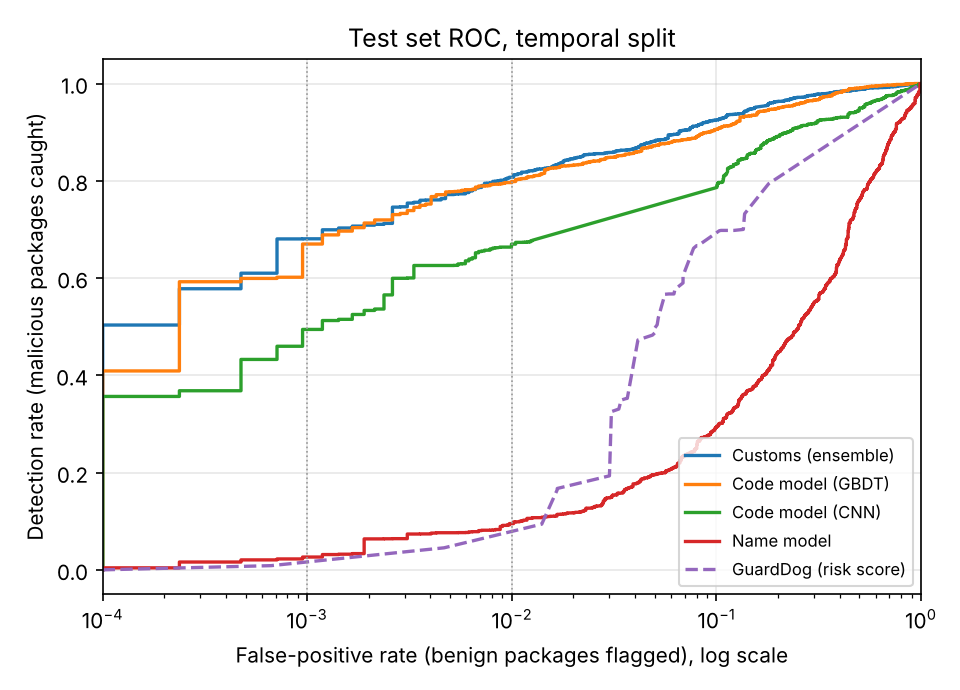
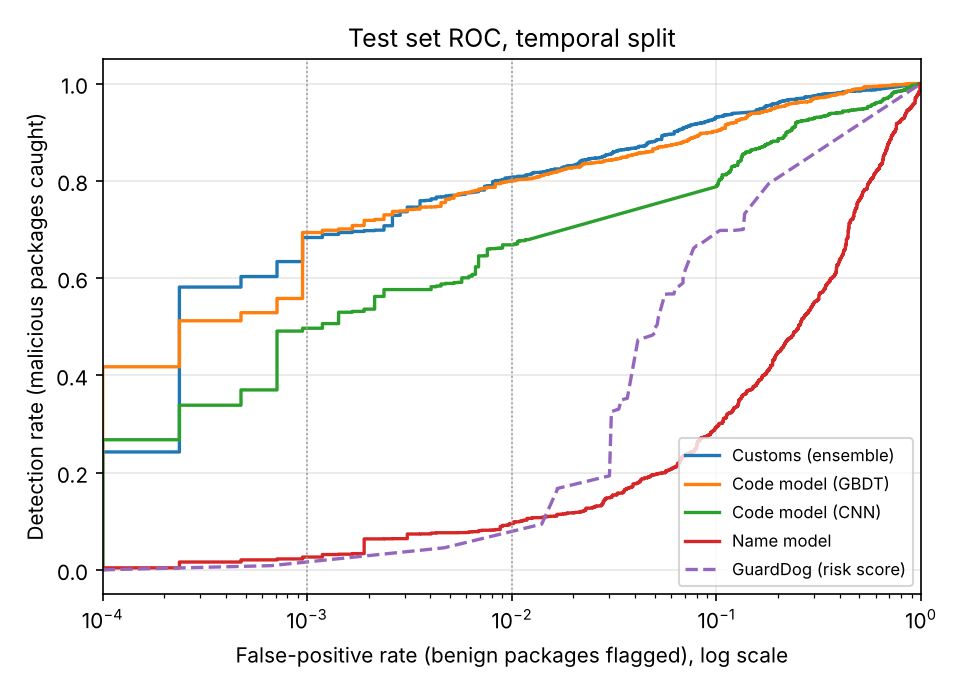
Models: retrain with encoded literal code and string-table reads
Threshold-free recall at 0.1% test FPR 68.3% (68.1% before), recall at
block 69.5% at 0.17% realized FPR, recall at warn 80.0%. The string_table
rewrite now costs 0.6 points at block (2.75 before), zlib_wrap is blocked
at 86.9%. MalRegistry campaign-weighted recall at 0.5% FPR 0.823 (0.814),
held-out campaigns blocked 68.0% (62.3%). Replay decision agreement 1.0,
history parity 107/107.

diff --git a/docs/EVALUATION.md b/docs/EVALUATION.md
@@ -1,6 +1,6 @@
 # Customs: evaluation report
 
-Generated 2026-10-08T04:34:23+00:00 by `python -m customs_ml.report` from the artifacts of `python -m customs_ml.pipeline`. Every number below is on held-out test data with thresholds frozen on the validation split, unless a row says otherwise.
+Generated 2026-10-08T06:03:45+00:00 by `python -m customs_ml.report` from the artifacts of `python -m customs_ml.pipeline`. Every number below is on held-out test data with thresholds frozen on the validation split, unless a row says otherwise.
 
 ## Data
 
@@ -20,16 +20,16 @@ Generated 2026-10-08T04:34:23+00:00 by `python -m customs_ml.report` from the ar
 
 | Metric | Test value (95% CI) |
 |---|---|
-| ROC AUC | 0.972 (0.965 to 0.978) |
-| PR AUC | 0.977 (0.972 to 0.982) |
-| Detection rate at the **block** threshold (target FPR 0.1%) | 63.8% (59.6 to 67.7) |
-| Realized test FPR at block | 0.07% (0.00 to 0.17) |
-| Detection rate at the **warn** threshold (target FPR 1%) | 78.2% (74.9 to 81.6) |
-| Realized test FPR at warn | 0.66% (0.43 to 0.93) |
-| Detection at exactly 0.1% FPR on the test ROC (threshold-free) | 68.1% (57.0 to 74.0) |
-| Detection at exactly 1% FPR on the test ROC (threshold-free) | 80.7% (77.2 to 84.3) |
-| Brier score | 0.064 |
-| Expected calibration error | 0.040 |
+| ROC AUC | 0.971 (0.963 to 0.977) |
+| PR AUC | 0.976 (0.970 to 0.981) |
+| Detection rate at the **block** threshold (target FPR 0.1%) | 69.5% (65.4 to 73.3) |
+| Realized test FPR at block | 0.17% (0.07 to 0.31) |
+| Detection rate at the **warn** threshold (target FPR 1%) | 80.0% (76.9 to 83.0) |
+| Realized test FPR at warn | 0.83% (0.57 to 1.10) |
+| Detection at exactly 0.1% FPR on the test ROC (threshold-free) | 68.3% (57.4 to 73.3) |
+| Detection at exactly 1% FPR on the test ROC (threshold-free) | 80.7% (76.8 to 83.9) |
+| Brier score | 0.065 |
+| Expected calibration error | 0.037 |
 
 ![ROC curves](figures/roc.png)
 
@@ -39,12 +39,12 @@ Each component's thresholds were chosen on validation at the same target FPRs.
 
 | Model | ROC AUC | PR AUC | Recall at block | FPR at block | Recall at warn | FPR at warn |
 |---|---:|---:|---:|---:|---:|---:|
-| Customs (ensemble) | 0.972 | 0.977 | 63.8% | 0.07% | 78.2% | 0.66% |
-| Code model (GBDT) | 0.969 | 0.974 | 64.8% | 0.09% | 80.3% | 1.07% |
-| Code model (CNN) | 0.923 | 0.934 | 35.6% | 0.00% | 64.1% | 0.64% |
+| Customs (ensemble) | 0.971 | 0.976 | 69.5% | 0.17% | 80.0% | 0.83% |
+| Code model (GBDT) | 0.969 | 0.974 | 66.6% | 0.09% | 80.4% | 1.21% |
+| Code model (CNN) | 0.925 | 0.935 | 26.8% | 0.02% | 62.0% | 0.66% |
 | Name model | 0.680 | 0.685 | 0.5% | 0.02% | 9.9% | 1.04% |
 
-Stacking weights on component logits: code GBDT 0.94, code CNN 0.47, name 0.05 (fit on validation with 5-fold cluster-grouped cross-fitting; calibration and thresholds use out-of-fold scores). Each component logit is clipped to [-4, 4] before stacking, the bound with the best out-of-fold recall up to 1% FPR on validation. Without it, a few benign validation packages with extreme CNN logits set the block threshold well past its 0.1% target.
+Stacking weights on component logits: code GBDT 1.19, code CNN 0.57, name 0.13 (fit on validation with 5-fold cluster-grouped cross-fitting; calibration and thresholds use out-of-fold scores). Each component logit is clipped to [-3, 3] before stacking, the bound with the best out-of-fold recall up to 1% FPR on validation. Without it, a few benign validation packages with extreme CNN logits set the block threshold well past its 0.1% target.
 
 ## Against GuardDog
 
@@ -52,11 +52,11 @@ Stacking weights on component logits: code GBDT 0.94, code CNN 0.47, name 0.05 (
 
 | | GuardDog | Customs |
 |---|---:|---:|
-| ROC AUC (GuardDog risk score vs Customs risk) | 0.837 | 0.973 |
+| ROC AUC (GuardDog risk score vs Customs risk) | 0.837 | 0.971 |
 | Any finding: FPR | 18.0% | same FPR by construction |
 | Any finding: detection rate | 79.4% | 95.9% |
 | `high_risk` label: FPR | 5.0% | same FPR by construction |
-| `high_risk` label: detection rate | 49.7% | 88.6% |
+| `high_risk` label: detection rate | 49.7% | 87.7% |
 
 At GuardDog's own false-positive rate, Customs' detection-rate gain has a paired cluster-bootstrap 95% CI of 13.0 to 20.2 points. (For this comparison only, Customs' threshold is set on the test benign packages to match GuardDog's realized FPR; that is what matched-FPR means.)
 
@@ -64,39 +64,39 @@ At GuardDog's own false-positive rate, Customs' detection-rate gain has a paired
 
 | Slice | n malicious | n benign | ROC AUC | Recall at block | FPR at block |
 |---|---:|---:|---:|---:|---:|
-| ecosystem:pypi | 209 | 2,332 | 0.981 | 44.0% | 0.04% |
-| ecosystem:npm | 3,891 | 1,885 | 0.964 | 64.9% | 0.11% |
-| malicious:novel_campaigns | 3,550 | 4,217 | 0.971 | 64.0% | 0.07% |
-| malicious:seen_campaigns | 550 | 4,217 | 0.979 | 62.7% | 0.07% |
-| malicious:malicious_intent | 3,903 | 4,217 | 0.976 | 65.0% | 0.07% |
-| malicious:compromised_lib | 197 | 4,217 | 0.904 | 41.1% | 0.07% |
-| size:tercile_1 | 2,877 | 1,406 | 0.983 | 75.2% | 0.21% |
-| size:tercile_2 | 747 | 1,405 | 0.955 | 48.3% | 0.00% |
-| size:tercile_3 | 476 | 1,406 | 0.926 | 19.3% | 0.00% |
+| ecosystem:pypi | 209 | 2,332 | 0.981 | 45.5% | 0.17% |
+| ecosystem:npm | 3,891 | 1,885 | 0.963 | 70.8% | 0.16% |
+| malicious:novel_campaigns | 3,550 | 4,217 | 0.969 | 69.8% | 0.17% |
+| malicious:seen_campaigns | 550 | 4,217 | 0.981 | 67.3% | 0.17% |
+| malicious:malicious_intent | 3,903 | 4,217 | 0.974 | 70.7% | 0.17% |
+| malicious:compromised_lib | 197 | 4,217 | 0.901 | 45.2% | 0.17% |
+| size:tercile_1 | 2,877 | 1,406 | 0.983 | 81.5% | 0.36% |
+| size:tercile_2 | 747 | 1,405 | 0.955 | 53.1% | 0.07% |
+| size:tercile_3 | 476 | 1,406 | 0.912 | 22.3% | 0.07% |
 
 False-positive rate on benign packages by popularity tier:
 
 | Tier | n | FPR at block | FPR at warn |
 |---|---:|---:|---:|
-| top | 574 | 0.00% | 0.35% |
-| mid | 1,490 | 0.00% | 0.54% |
-| tail | 2,153 | 0.14% | 0.84% |
+| top | 574 | 0.00% | 0.52% |
+| mid | 1,490 | 0.00% | 0.60% |
+| tail | 2,153 | 0.33% | 1.07% |
 
 `malicious:*` slices are each malicious subset against all benign test packages. `novel_campaigns` are test samples whose near-duplicate cluster has no member in training: the closest thing to a never-seen attack. Size terciles cut on benign source-line counts, to expose any small-package shortcut.
 
 ## What the misses are
 
-Of 4,100 test malware packages, 893 fall below the warn threshold. Grouped by what the scanner saw:
+Of 4,100 test malware packages, 822 fall below the warn threshold. Grouped by what the scanner saw:
 
 | Scanner saw | n malicious | Missed | Miss rate |
 |---|---:|---:|---:|
-| Behavior indicators on the install surface | 2,960 | 327 | 11.0% |
-| Indicators only outside the install surface | 482 | 284 | 58.9% |
-| No behavior indicator anywhere | 658 | 282 | 42.9% |
+| Behavior indicators on the install surface | 2,960 | 294 | 9.9% |
+| Indicators only outside the install surface | 482 | 252 | 52.3% |
+| No behavior indicator anywhere | 658 | 276 | 41.9% |
 
 A hand audit of 20 missed packages with no indicator anywhere (one per campaign, sampled at random) found 12 whose payload is a compiled binary (`.node`, `.exe`, `.so`, a macOS app), 1 that ships no code and depends on a malicious package (which the proxy scans on its own when the client fetches it), and 7 with no malicious content in the archive: two placeholders (a name reserved against dependency confusion that only raises an error, and the PyPA sample project) and five releases that read as clean. Those seven are label noise, so part of this row is not detectable by any scanner.
 
-Binary-only packages (a compiled binary and under 50 lines of source) are a temporal blind spot: 155 test malware packages against 68 in training, and 86.5% of the test ones are missed at warn.
+Binary-only packages (a compiled binary and under 50 lines of source) are a temporal blind spot: 155 test malware packages against 68 in training, and 85.2% of the test ones are missed at warn.
  Searching every packaged binary for infostealer and dropper strings (webhook and bot endpoints, browser credential stores, wallet and SSH key paths, anti-VM process names, autorun commands, IP-literal URLs) does not separate the classes: at least one appears in 4.9% of malicious and 3.2% of benign training binaries, and in 7.5% of malicious test ones. PyInstaller marks 34.5% of malicious training binaries but 2.0% in test, so a feature built on it would learn the past. Binary payloads stay with the policy rules (minimum package age, install scripts in new packages) rather than the classifier.
 
 ## Ablation: what does the code itself say?
@@ -106,8 +106,8 @@ The tree model retrained on 47 behavior features only (indicator counts and obfu
 | Feature set | ROC AUC | Recall at block | Recall at warn |
 |---|---:|---:|---:|
 | All features (before augmentation) | 0.976 | 73.0% | 81.1% |
-| All features | 0.969 | 64.8% | 80.3% |
-| Behavior only | 0.937 | 45.6% | 59.7% |
+| All features | 0.969 | 66.6% | 80.4% |
+| Behavior only | 0.937 | 42.4% | 60.1% |
 
 ## Adversarial robustness
 
@@ -115,25 +115,26 @@ Held-out test malware rewritten as text (never executed), re-scanned and re-scor
 
 | Transform | Seen in training | Block (before) | Block (after) | Warn (before) | Warn (after) |
 |---|---|---:|---:|---:|---:|
-| none | n/a | 53.0% | 62.0% | 80.0% | 76.9% |
-| string_split | no | 47.6% | 61.1% | 78.0% | 76.6% |
-| hex_escape | no | n/a | 61.3% | n/a | 78.2% |
-| char_codes | no | n/a | 61.8% | n/a | 79.5% |
-| reverse_strings | no | n/a | 59.9% | n/a | 76.5% |
-| array_join | no | n/a | 59.9% | n/a | 76.2% |
-| string_table | no | n/a | 59.2% | n/a | 77.4% |
-| base64_wrap | no | 68.4% | 78.9% | 91.6% | 92.5% |
-| trojan_padding | yes | 35.4% | 59.1% | 68.0% | 77.9% |
-| indirection | no | 52.5% | 62.0% | 79.9% | 76.9% |
-| metadata_mimicry | yes | 38.6% | 56.4% | 63.2% | 74.6% |
-| starjack | yes | 29.8% | 52.8% | 57.9% | 73.5% |
+| none | n/a | 53.0% | 68.6% | 80.0% | 78.6% |
+| string_split | no | 47.6% | 68.0% | 78.0% | 78.4% |
+| hex_escape | no | n/a | 68.1% | n/a | 79.8% |
+| char_codes | no | n/a | 68.4% | n/a | 82.4% |
+| reverse_strings | no | n/a | 67.0% | n/a | 77.9% |
+| array_join | no | n/a | 66.5% | n/a | 77.5% |
+| string_table | no | n/a | 68.0% | n/a | 78.8% |
+| base64_wrap | no | 68.4% | 86.1% | 91.6% | 93.1% |
+| zlib_wrap | no | n/a | 86.9% | n/a | 92.9% |
+| trojan_padding | yes | 35.4% | 66.9% | 68.0% | 79.1% |
+| indirection | no | 52.5% | 68.6% | 79.9% | 78.6% |
+| metadata_mimicry | yes | 38.6% | 63.2% | 63.2% | 76.0% |
+| starjack | yes | 29.8% | 57.5% | 57.9% | 74.1% |
 
 Clean test performance before and after augmentation:
 
 | | ROC AUC | Recall at block | Recall at warn | FPR at block |
 |---|---:|---:|---:|---:|
 | Before | 0.979 | 53.9% | 80.0% | 0.00% |
-| After | 0.972 | 63.8% | 78.2% | 0.07% |
+| After | 0.971 | 69.5% | 80.0% | 0.17% |
 
 ## Name model
 
@@ -153,13 +154,13 @@ The name model's job is the pre-download check (typosquats and names an agent ha
 | | Value |
 |---|---:|
 | Requests | 706 |
-| Mean latency per request (scan + score + policy) | 148 ms |
-| Malicious: blocked (HTTP 403) | 63.1% |
-| Malicious: blocked or warned | 75.8% |
+| Mean latency per request (scan + score + policy) | 80 ms |
+| Malicious: blocked (HTTP 403) | 66.7% |
+| Malicious: blocked or warned | 78.1% |
 | Benign: blocked | 0.2% |
-| Benign: warned | 0.2% |
+| Benign: warned | 0.5% |
 | Decisions identical to the Python pipeline | 100.0% |
-| Largest risk difference vs Python | 9.51e-08 |
+| Largest risk difference vs Python | 1.63e-07 |
 
 ### Latency under concurrent installs
 
@@ -181,10 +182,10 @@ The time-split test above uses one collector's malware. MalRegistry (the PyPI ma
 
 | Subset | n | Warn or block | Block |
 |---|---:|---:|---:|
-| All archives | 11,630 | 96.1% | 85.6% |
-| Novel, dev half (in training) | 1,698 | 96.8% | 85.3% |
-| Novel, held-out half | 2,174 | 85.2% | 40.2% |
-| Novel, held-out, one per cluster | 660 | 82.9% | 62.3% |
+| All archives | 11,630 | 97.6% | 86.8% |
+| Novel, dev half (in training) | 1,698 | 97.3% | 89.2% |
+| Novel, held-out half | 2,174 | 92.3% | 42.8% |
+| Novel, held-out, one per cluster | 660 | 83.9% | 68.0% |
 
 Novel malware from another collector is much harder than the time-split test set. Thresholds move between retrains, so the comparisons below are made at matched false positive rates on the benign test split.
 
@@ -209,9 +210,9 @@ The changes helped the half they were designed on and barely moved the half that
 
 Held-out recall at 0.5% FPR by share of dev clusters added: 25% (213 clusters): 43.0%, 50% (426 clusters): 46.1%, 100% (853 clusters): 48.7%.
 
-The shipped models include the dev half (pipeline stage `malregistry`). Rerun through the binary, they score the held-out half at 42.0% / 50.0% / 92.5% (code only, 0.1% / 0.5% / 1% FPR).
+The shipped models include the dev half (pipeline stage `malregistry`). Rerun through the binary, they score the held-out half at 40.8% / 91.1% / 92.4% (code only, 0.1% / 0.5% / 1% FPR).
 
-**Read the campaign-weighted numbers.** Weighting each held-out campaign equally, the shipped models catch 66.5% / 80.5% / 84.1% at the same rates. One campaign holds 901 near-identical archives (41.4% of the held-out half) with code-only risk near 0.85, so per-archive recall jumps by that share whenever a retrain moves that score across a threshold; per-archive numbers between runs are only comparable when that campaign stays on the same side.
+**Read the campaign-weighted numbers.** Weighting each held-out campaign equally, the shipped models catch 63.9% / 81.0% / 83.8% at the same rates. One campaign holds 901 near-identical archives (41.4% of the held-out half) with code-only risk near 0.94, so per-archive recall jumps by that share whenever a retrain moves that score across a threshold; per-archive numbers between runs are only comparable when that campaign stays on the same side.
 
 ## Experiment: release diff model
 
@@ -219,18 +220,18 @@ A hijacked release of a popular library is mostly the previous release plus a pa
 
 | | Base model | Diff model |
 |---|---:|---:|
-| ROC AUC, real compromised test releases (n=178) | 0.896 | 0.881 |
+| ROC AUC, real compromised test releases (n=178) | 0.893 | 0.881 |
 | ROC AUC, synthetic compromises (test) | n/a | 0.994 |
 
 | Test FPR | Base recall | Base + diff recall |
 |---:|---:|---:|
-| 0.1% | 45.5% | 43.8% |
-| 0.5% | 63.5% | 59.0% |
-| 1.0% | 73.6% | 61.8% |
+| 0.1% | 44.4% | 45.5% |
+| 0.5% | 56.7% | 57.9% |
+| 1.0% | 65.7% | 61.8% |
 
-At 0.5% FPR the two models disagree often: 56 releases are caught by both, 57 only by the base model and 9 only by the diff model (among them litellm 1.82.7 and 1.82.8, which the base model scores far below its warn threshold). The diff model misses releases whose previous version was already compromised, since the payload is then not new.
+At 0.5% FPR the two models disagree often: 56 releases are caught by both, 45 only by the base model and 9 only by the diff model (among them litellm 1.82.7 and 1.82.8, which the base model scores far below its warn threshold). The diff model misses releases whose previous version was already compromised, since the payload is then not new.
 
-Combined at a matched false positive rate (each model's score turned into a tail probability on benign validation pairs, then the maximum), the pair gains -1.7 points at 0.1%, -4.5 points at 0.5%, -11.8 points at 1.0% FPR, on 178 releases. Taking the maximum of two scores spends the false positive budget on both, which costs recall at the block operating point (45.5% to 43.8% at 0.1%). The diff model is therefore not part of the shipped decision: the combination loses recall at every rate measured.
+Combined at a matched false positive rate (each model's score turned into a tail probability on benign validation pairs, then the maximum), the pair gains +1.1 points at 0.1%, +1.1 points at 0.5%, -3.9 points at 1.0% FPR, on 178 releases. Taking the maximum of two scores spends the false positive budget on both. The diff model is therefore not part of the shipped decision: the gains at looser rates are a handful of releases out of 178, and the loss lands on the decision that blocks.
 
 ## Release history rules on compromised npm releases
 
@@ -251,13 +252,13 @@ On the 165 compromised releases in the test period, together with the model:
 
 | | Model alone | With the rules |
 |---|---:|---:|
-| Warned or blocked (any default rule) | 61.8% | 97.6% to 100.0% |
-| Blocked, `install_script_added` only | 40.6% | 77.0% to 77.6% |
-| Blocked, every blocking rule | 40.6% | 95.8% to 98.8% |
+| Warned or blocked (any default rule) | 64.2% | 98.8% to 100.0% |
+| Blocked, `install_script_added` only | 44.2% | 77.0% to 77.6% |
+| Blocked, every blocking rule | 44.2% | 95.8% to 98.8% |
 
 `install_script_added` is the rule that earns its place: it fired on 4 of 14,894 legitimate releases (0.03%, under the block budget of 0.1%) and on at least 69.1% of compromised ones, because the classic takeover adds a `postinstall` and established packages rarely change theirs. It compares with the previous release and, when that shows no change, with the newest release at least a day older: attackers often publish several malicious versions within hours, and each one matches the one before it. It therefore blocks by default. `publisher_changed` is the noisiest rule on by default (1.06% of releases; 40.0% of packages over the window, since large projects rotate release managers), and its value on compromised releases cannot be measured once they are unpublished, so it stays at warn. Provenance cannot be judged from what survives: of the 17 compromised releases still listed, 3 followed a release with provenance, and 2 of those carry valid provenance themselves, because the attacker published through the project's own CI. A takeover by stolen token drops provenance; a takeover of the build does not.
 
-The two dependency rules target waves whose payload arrives through a dependency, not the package's own files, so the scanner sees nothing in the archive: a new `optionalDependencies` entry pointing at a GitHub commit, or a new dependency on a package the attacker published days earlier. `nonregistry_dependency_added` fires when a git, URL or file dependency is new or changed since the previous release; `young_dependency_added` fires when a new dependency is not on the registry, or was first published less than 7 days before the release by someone who maintains or publishes none of the package's releases (a maintainer's own new platform package is routine). They fired on 8.6% to 39.8% and 6.4% to 42.2% of compromised releases, and on 0 and 1 of 14,894 legitimate ones. Of the 63 test-period compromised releases the model lets through, they catch 29. Both block by default.
+The two dependency rules target waves whose payload arrives through a dependency, not the package's own files, so the scanner sees nothing in the archive: a new `optionalDependencies` entry pointing at a GitHub commit, or a new dependency on a package the attacker published days earlier. `nonregistry_dependency_added` fires when a git, URL or file dependency is new or changed since the previous release; `young_dependency_added` fires when a new dependency is not on the registry, or was first published less than 7 days before the release by someone who maintains or publishes none of the package's releases (a maintainer's own new platform package is routine). They fired on 8.6% to 39.8% and 6.4% to 42.2% of compromised releases, and on 0 and 1 of 14,894 legitimate ones. Of the 59 test-period compromised releases the model lets through, they catch 28. Both block by default.
 
 Takeovers come in waves, one attacker working through every package a stolen account or token can publish. Grouping the test-period releases by npm scope, or by name prefix for unscoped packages, shows which waves each layer stops (groups of at least 3 releases; blocked means under the default policy):
 
@@ -265,8 +266,8 @@ Takeovers come in waves, one attacker working through every package a stolen acc
 |---|---:|---:|---:|---:|---:|
 | `@emilgroup/*` | 21 | 19 | 21 | 18 | 21 |
 | `@mastra/*` | 19 | 19 | 0 | 19 | 19 |
-| `@antv/*` | 18 | 18 | 17 | 18 | 18 |
-| `@redhat-cloud-services/*` | 16 | 16 | 9 | 16 | 16 |
+| `@antv/*` | 18 | 18 | 18 | 18 | 18 |
+| `@redhat-cloud-services/*` | 16 | 16 | 11 | 16 | 16 |
 | `autotel-*` | 11 | 8 | 0 | 11 | 11 |
 | `@tanstack/*` | 7 | 7 | 0 | 7 | 7 |
 | `awaitly-*` | 7 | 5 | 0 | 7 | 7 |
